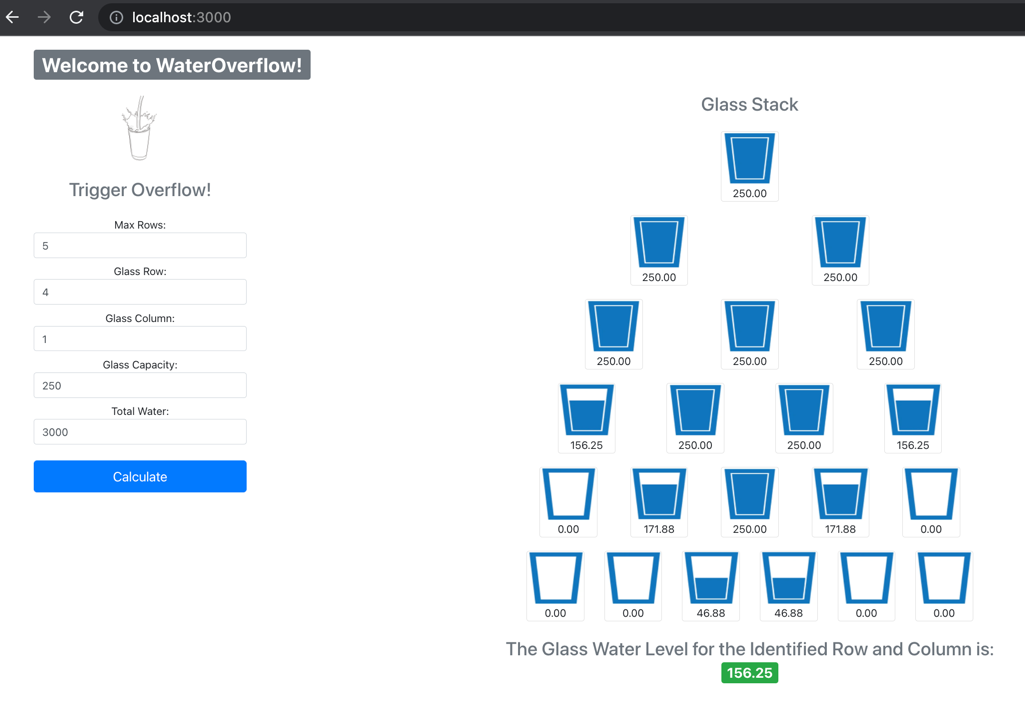
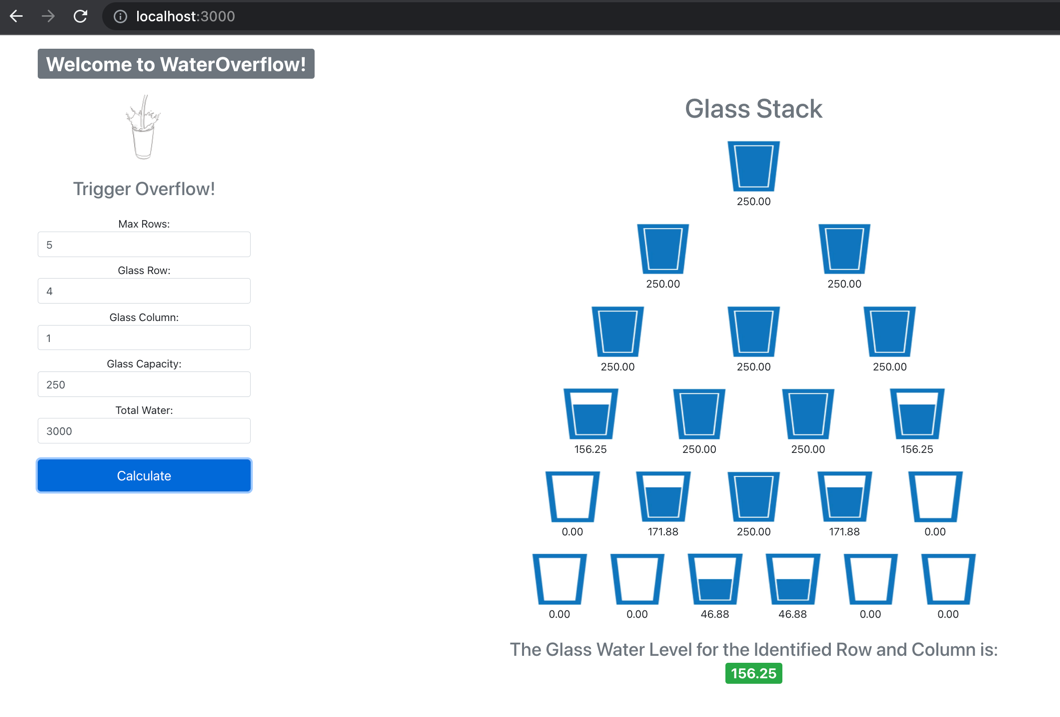
minor aesthetics

diff --git a/src/Components/GlassStack/GlassStack.js b/src/Components/GlassStack/GlassStack.js
@@ -71,7 +71,7 @@ const GlassStack = (props) => {
             <div className={styles.glassStack}>
                 <div>
                     <div>
-                    <h1 className="h3 mb-4 text-muted">Glass Stack</h1>
+                    <h1 className="h1 mb-4 text-muted">Glass Stack</h1>
                     </div>
                     <Container>
                     {glassStack.map((row, r) => (

diff --git a/src/Components/Glass/Glass.js b/src/Components/Glass/Glass.js
@@ -7,7 +7,7 @@ const Glass = (props) => {
     return (
        
         <> 
-            <Card >
+            <Card className={styles.noborder}>
                 <Card.Img src={props.glassImage}  className={styles.imgHeight}/>
                 <Card.Body className={styles.nopadding}>
                     <Card.Text>{props.waterLevel}</Card.Text>

diff --git a/src/Components/GlassStack/GlassStack.module.css b/src/Components/GlassStack/GlassStack.module.css
@@ -12,4 +12,9 @@
 .center {
     margin: 20px 20px;
     justify-content: space-evenly;
+    
+ }
+
+ .noborder {
+    border: none !important;
  }

diff --git a/src/Components/Glass/Glass.module.css b/src/Components/Glass/Glass.module.css
@@ -18,3 +18,8 @@
     padding: 0 !important;
     margin: 0 !important;
  }
+
+
+ .noborder {
+    border: none !important;
+ }
